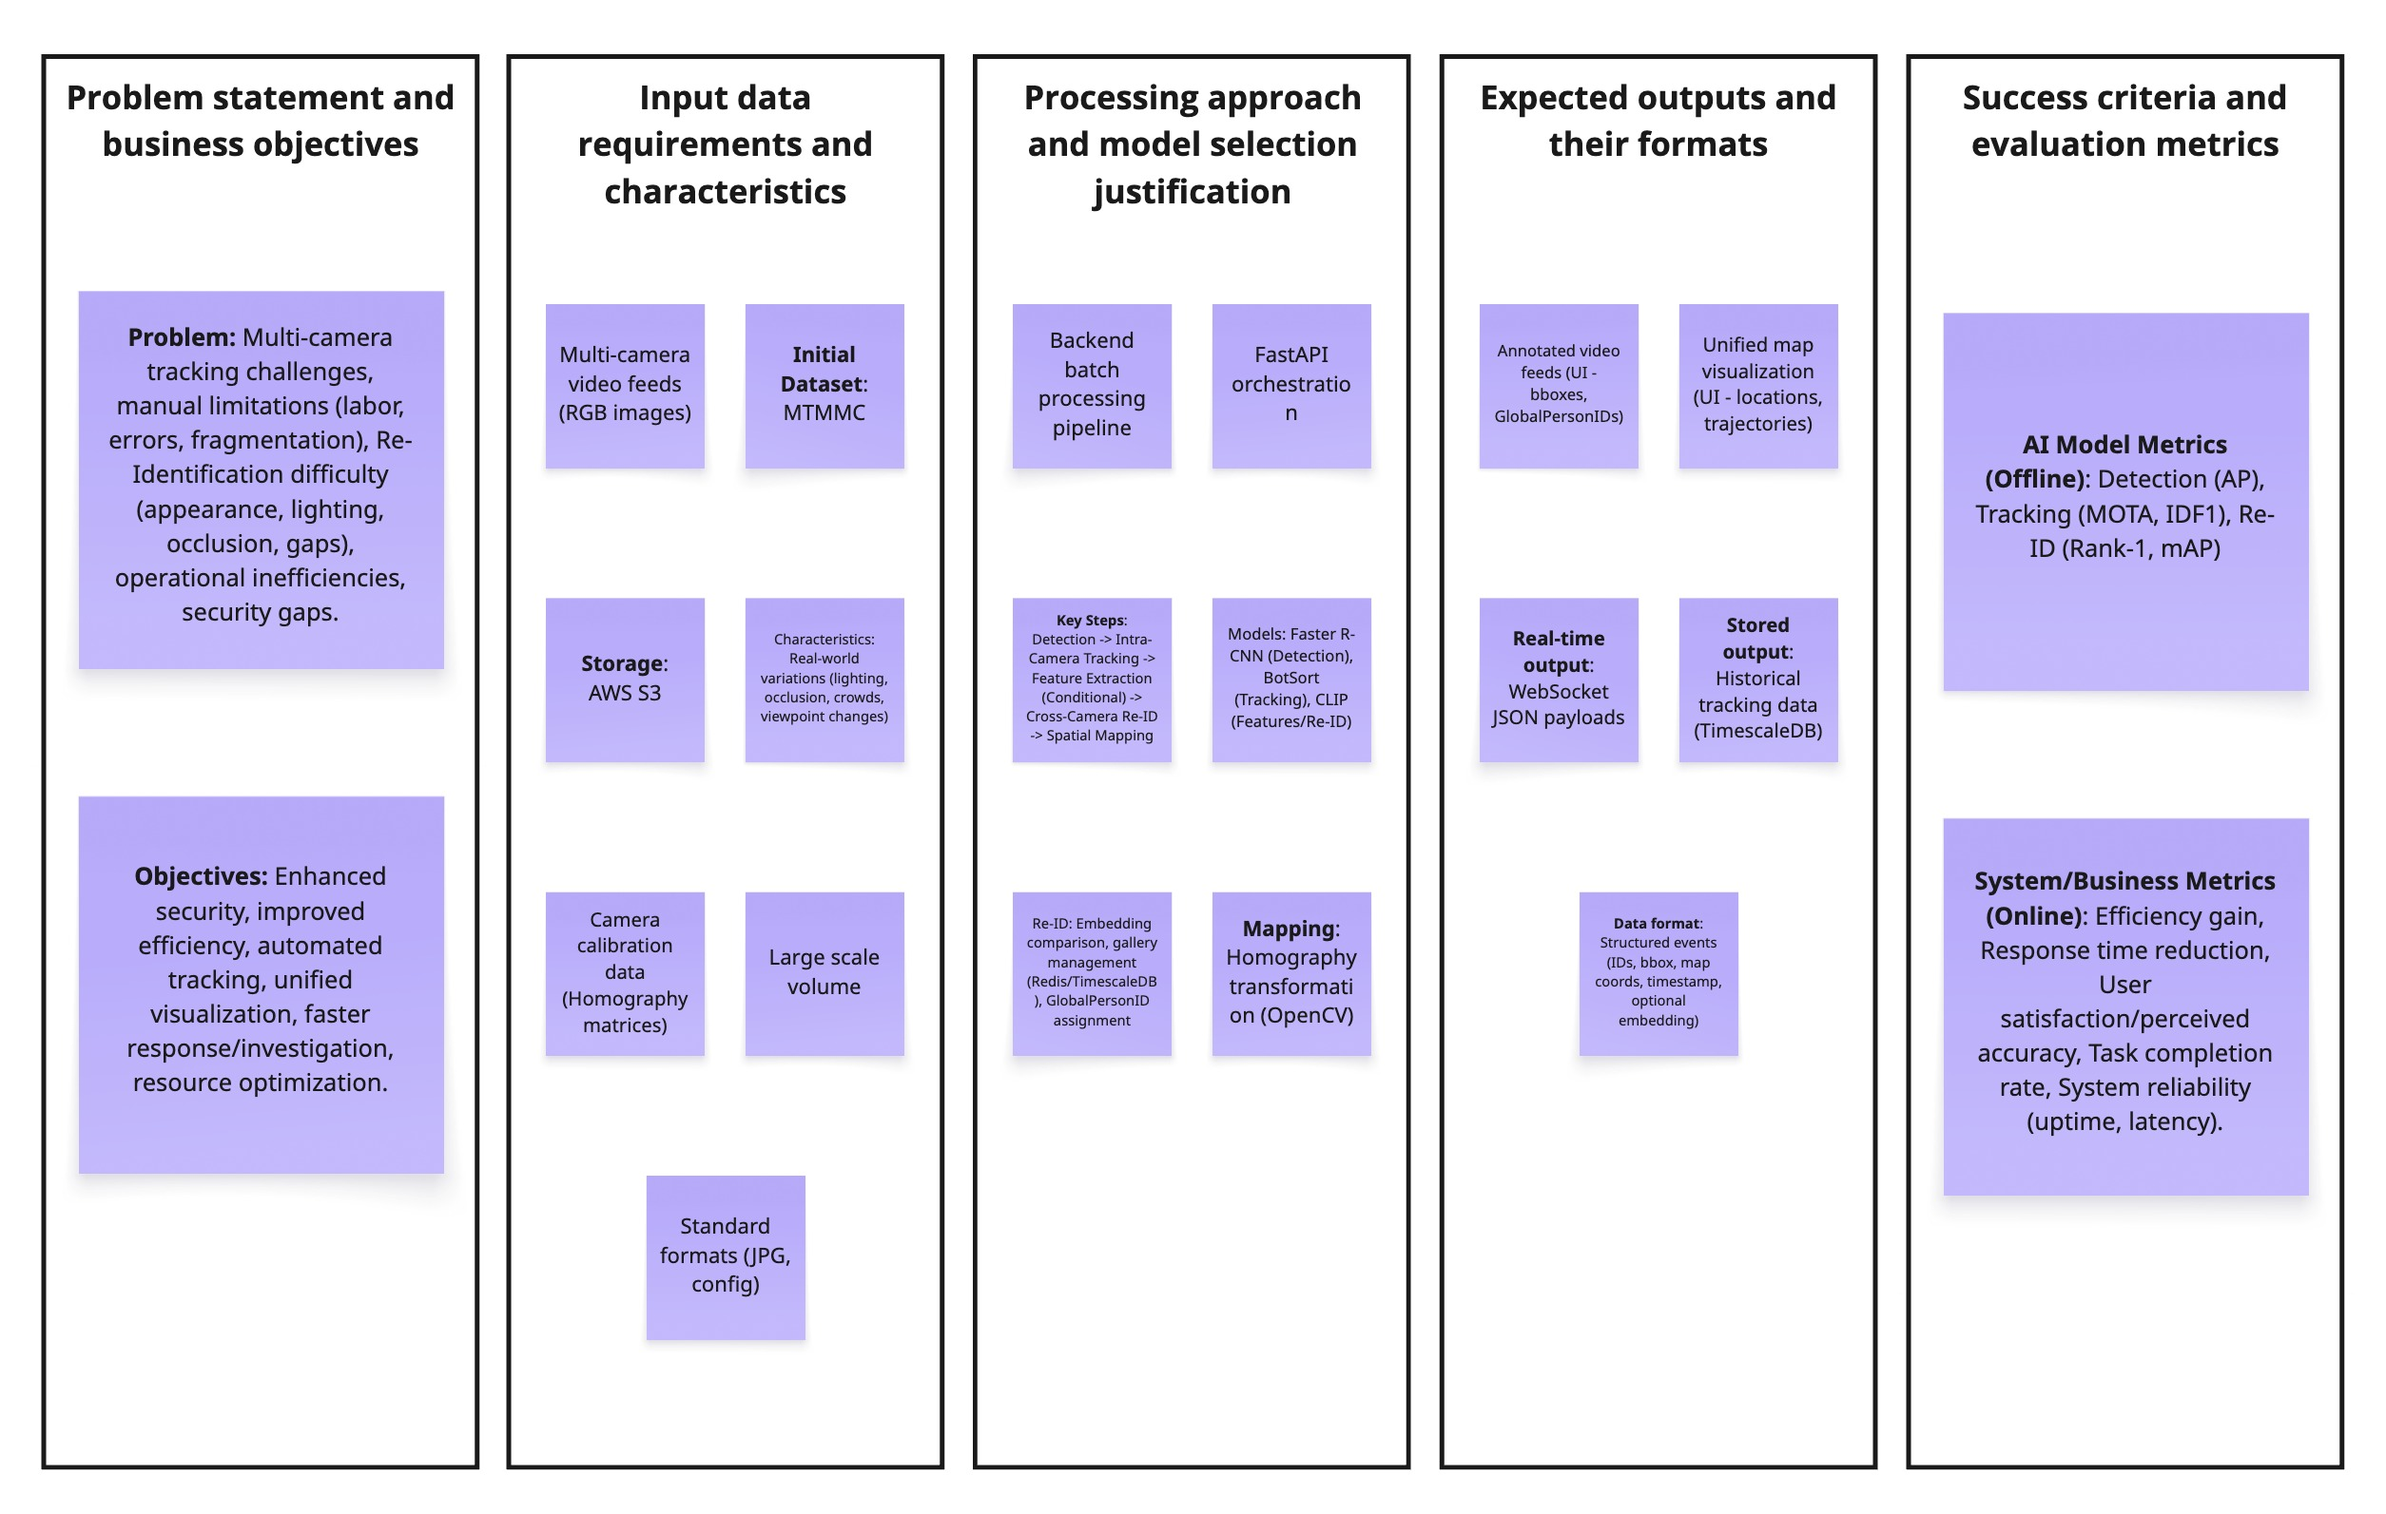
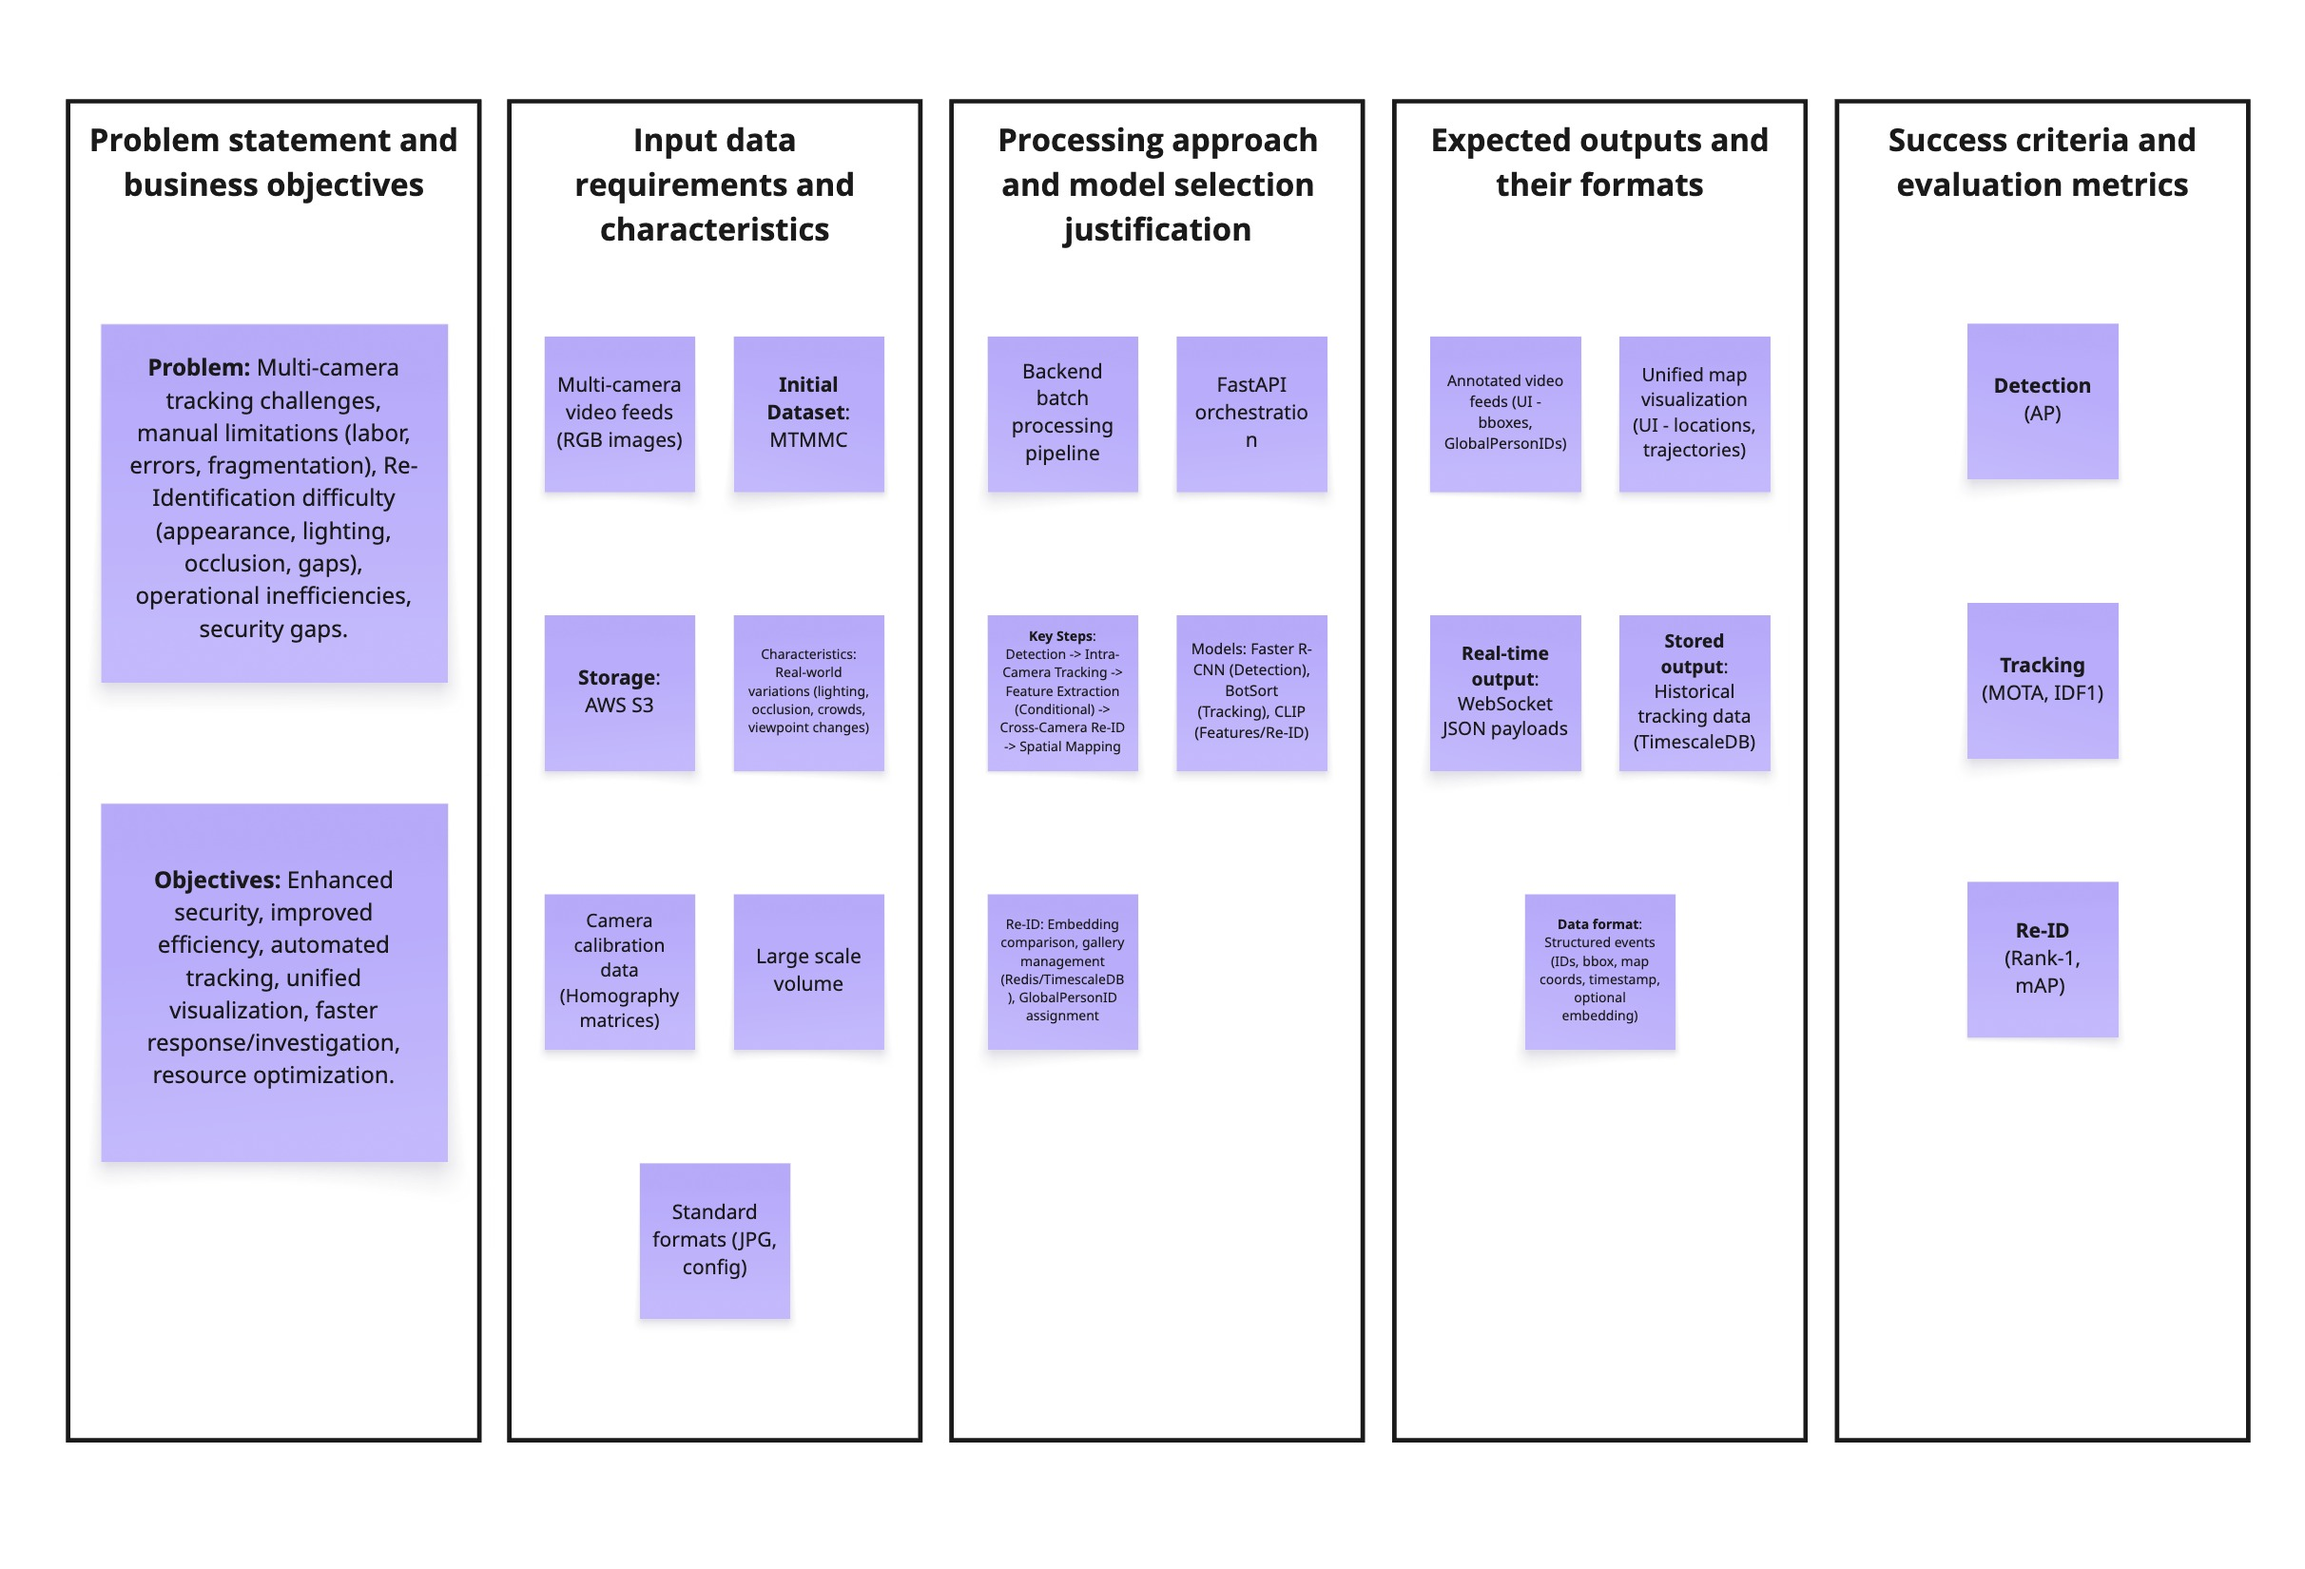
chore: updated the ml canvas

Changed region(s): [[0.0, 0.0308, 0.9901, 0.9843], [0.6498, 0.5537, 0.7426, 0.7075], [0.526, 0.3076, 0.5569, 0.3384]]

diff --git a/body/aicomponentdesign.tex b/body/aicomponentdesign.tex
@@ -179,13 +179,12 @@ Figure \ref{fig:ai_canvas} illustrates this.
             \item Requires user training on the interface for retrospective analysis and building trust in the AI's associations. It augments staff capabilities for investigation and analysis.
         \end{itemize}
 \end{itemize}
-
 Figure \ref{fig:ml_canvas} illustrates the comprehensive ML Canvas design specifically tailored for the Intelligent Multi-Camera Person Tracking and Analytics System. This canvas provides a detailed blueprint for the ML components, building upon the general AI task analysis.
 
 \begin{figure}[!htb]
     \centering
     \makebox[\textwidth][c]{
-        \includegraphics[width=1.0\textwidth, keepaspectratio]{jubjones/ml_canvas.jpg}
+        \includegraphics[width=1.0\textwidth, keepaspectratio]{jubjones/ml_canvas.jpg} 
     }
     \caption{ML Canvas for Intelligent Multi-Camera Person Tracking and Analytics System}
     \label{fig:ml_canvas}
@@ -196,7 +195,7 @@ Figure \ref{fig:ml_canvas} illustrates the comprehensive ML Canvas design specif
         The system directly addresses the significant challenges security and facility personnel face in tracking individuals across complex, multi-camera environments using recorded data. It tackles the limitations of manual review—its labor intensity, error propensity, and fragmented views—and the core technical hurdle of maintaining consistent identity (Re-Identification) despite variations in appearance, lighting, occlusions, and camera viewpoints present in historical footage. The overarching business objectives are to enhance safety through better post-incident analysis, improve operational efficiency by automating tracking in recorded data, provide unified spatial visualization of movement, reduce incident investigation time, and optimize resource allocation based on analytics from past events.
 
     \item \textbf{Input Data Requirements (ML Canvas):}
-        The necessary components for the system primarily involve recorded RGB video feeds (pre-split into sub-videos) or image sequences from multiple cameras, initially using datasets like MTMMC stored on cloud storage (e.g., AWS S3). These inputs encapsulate real-world challenges. Pre-calculated camera calibration data (Homography matrices) are essential inputs for spatial mapping.
+        The necessary components for the system primarily involve recorded RGB video feeds (pre-split into sub-videos) or image sequences from multiple cameras, initially using datasets like MTMMC stored on cloud storage (e.g., AWS S3). These inputs encapsulate real-world challenges. Pre-calculated camera calibration data (Homography matrices) are essential inputs for spatial mapping, which is performed by the backend system using outputs from the ML pipeline.
 
     \item \textbf{Processing Approach \& Model Selection (ML Canvas):}
         Central to the design is a backend-driven batch processing pipeline orchestrated by FastAPI. This pipeline integrates key AI steps in sequence:
@@ -205,22 +204,20 @@ Figure \ref{fig:ml_canvas} illustrates the comprehensive ML Canvas design specif
             \item Intra-Camera Tracking, employing algorithms like BotSort (potentially via BoxMOT) to maintain temporary IDs within single camera views.
             \item Conditional Feature Extraction for Re-ID, using models like CLIP (potentially via BoxMOT) to generate discriminative embeddings.
             \item Cross-Camera Re-Identification, which compares embeddings against a gallery (managed via Redis for recent/active data and TimescaleDB for historical data) to assign persistent GlobalPersonIDs.
-            \item Spatial Mapping, applying input homography matrices via libraries like OpenCV to project detected locations onto a unified map.
         \end{enumerate}
-        The justifications for model choices emphasize accuracy, robustness, and efficiency for retrospective analysis.
+        The ML pipeline provides track data (including pixel coordinates) which can then be used by the backend for spatial mapping. The justifications for model choices emphasize accuracy, robustness, and efficiency for retrospective analysis.
 
     \item \textbf{Expected Outputs (ML Canvas):}
         The system's outputs encompass both user-facing visualizations and stored data for analysis.
         \begin{itemize}
-            \item \textit{For the UI (from backend metadata):} Annotated video feeds (client-side rendering of bounding boxes and GlobalPersonIDs based on WebSocket metadata) alongside a unified map interface showing current locations and historical paths.
-            \item \textit{For historical analysis:} Structured tracking events (timestamp, IDs, coordinates, optional embeddings) stored in a TimescaleDB database.
+            \item \textit{For the UI (from backend metadata):} Annotated video feeds (client-side rendering of bounding boxes and GlobalPersonIDs based on WebSocket metadata) alongside a unified map interface showing current locations and historical paths (achieved by backend mapping of ML outputs).
+            \item \textit{For historical analysis:} Structured tracking events (timestamp, IDs, coordinates including map coordinates derived by the backend, optional embeddings) stored in a TimescaleDB database.
         \end{itemize}
 
     \item \textbf{Success Criteria \& Evaluation Metrics (ML Canvas):}
-        A dual approach to measuring performance is outlined:
+        Evaluation primarily focuses on AI Model-Level Metrics through offline assessment:
         \begin{itemize}
             \item \textit{AI Model-Level Metrics (Offline Evaluation):} Specific metrics such as AP (Average Precision), MOTA (Multiple Object Tracking Accuracy), IDF1 (ID F1-Score), Rank-1 accuracy, and mAP (mean Average Precision) using dedicated test sets from datasets like MTMMC.
-            \item \textit{System and Business-Level Metrics (Operational Assessment):} Critical indicators including efficiency gains in analytical tasks, reduction in incident investigation response time, user satisfaction levels, task completion rates for key scenarios using the system, and overall system reliability during batch processing.
         \end{itemize}
 \end{itemize}
 This detailed ML Canvas provides a comprehensive blueprint for the development and evaluation of this intelligent surveillance analysis system.
@@ -422,18 +419,6 @@ The PoC involved the following key steps:
     \item \textbf{Client-Side Interpretation:} The test client logged these incoming messages, demonstrating that the backend correctly performed the AI pipeline (detection, tracking, Re-ID, homography) and formatted the results into the specified JSON structure for WebSocket delivery.
 \end{enumerate}
 This PoC successfully validated that the backend service could manage a processing task, execute the AI pipeline on video data, and deliver structured, real-time tracking metadata suitable for a frontend application to consume for visualization (e.g., rendering bounding boxes on video playback and plotting trajectories on a map).
-
-% User to uncomment and provide path to their PoC UI image
-% \begin{figure}[!htb]
-%     \centering
-%     % \includegraphics[width=0.8\textwidth]{path/to/your/poc_ui_image.png}
-%     \caption{Conceptual User Interface for Proof of Concept System Demonstration}
-%     \label{fig:poc_ui_demonstration}
-% \end{figure}
-% Figure \ref{fig:poc_ui_demonstration} could illustrate a conceptual user interface developed for the PoC,
-% showcasing how the tracking metadata received from the backend (via WebSockets) might be rendered.
-% This would typically include a video playback area with overlaid bounding boxes and person IDs,
-% alongside a map view displaying synchronized trajectories and current locations of tracked individuals.
 
 \section{(Optional) Reflection and Future Development}
 \label{section:reflection} % This section remains untouched as per request
